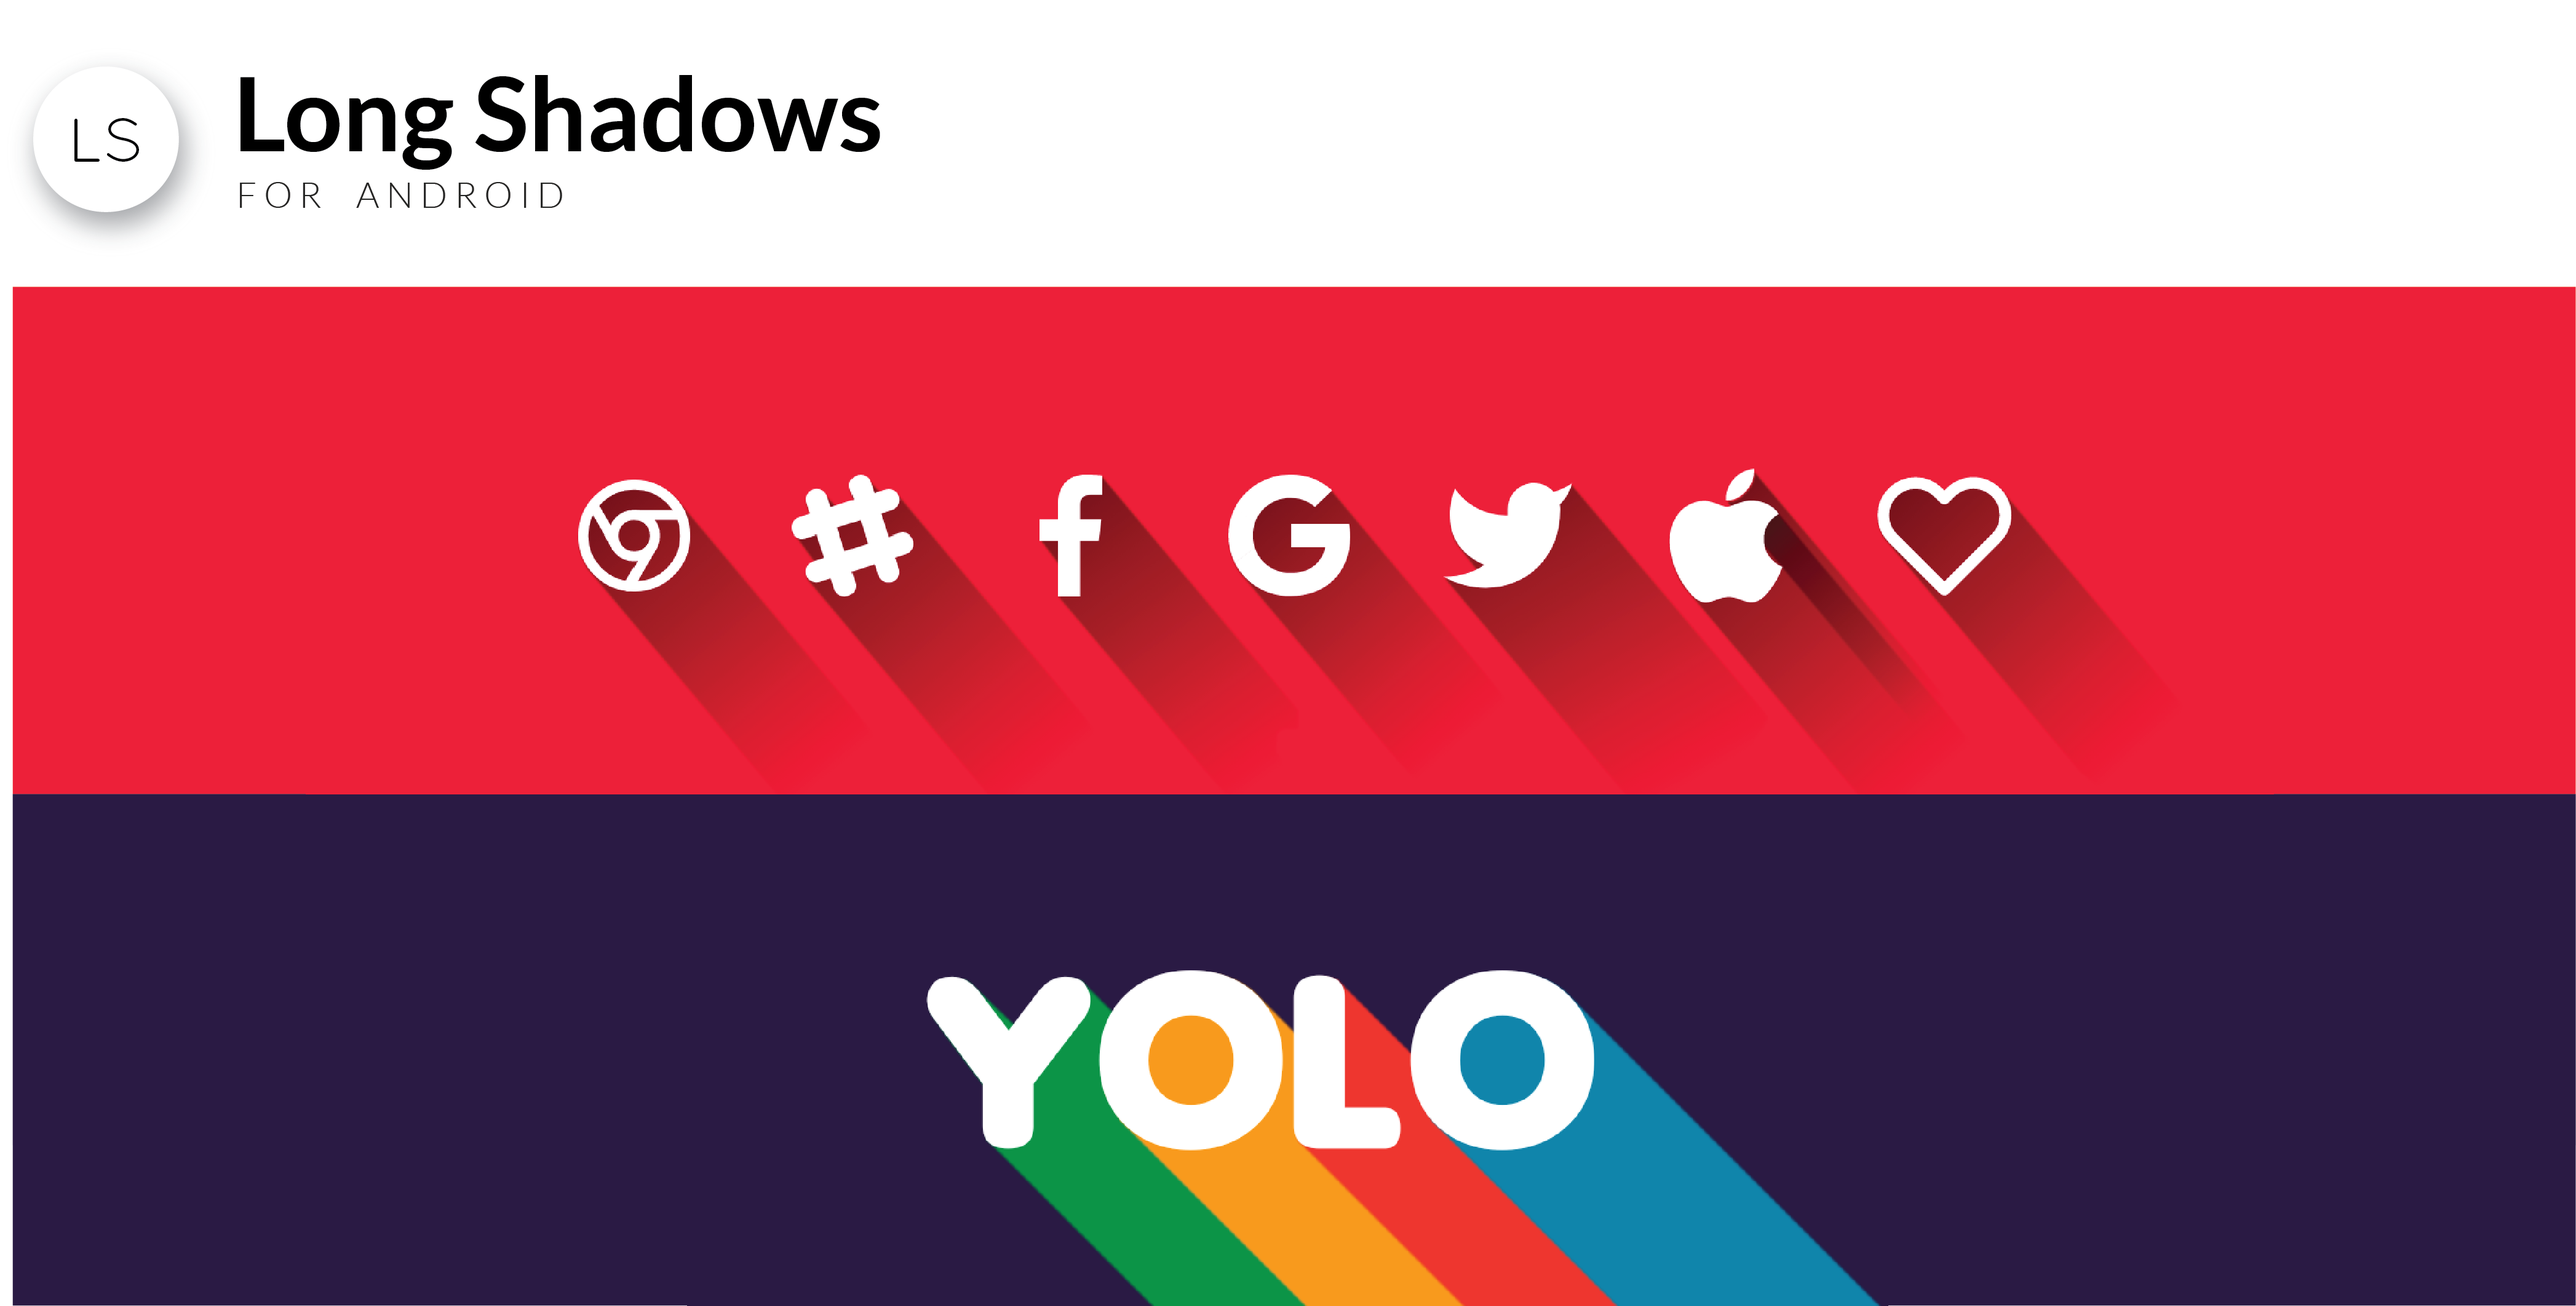
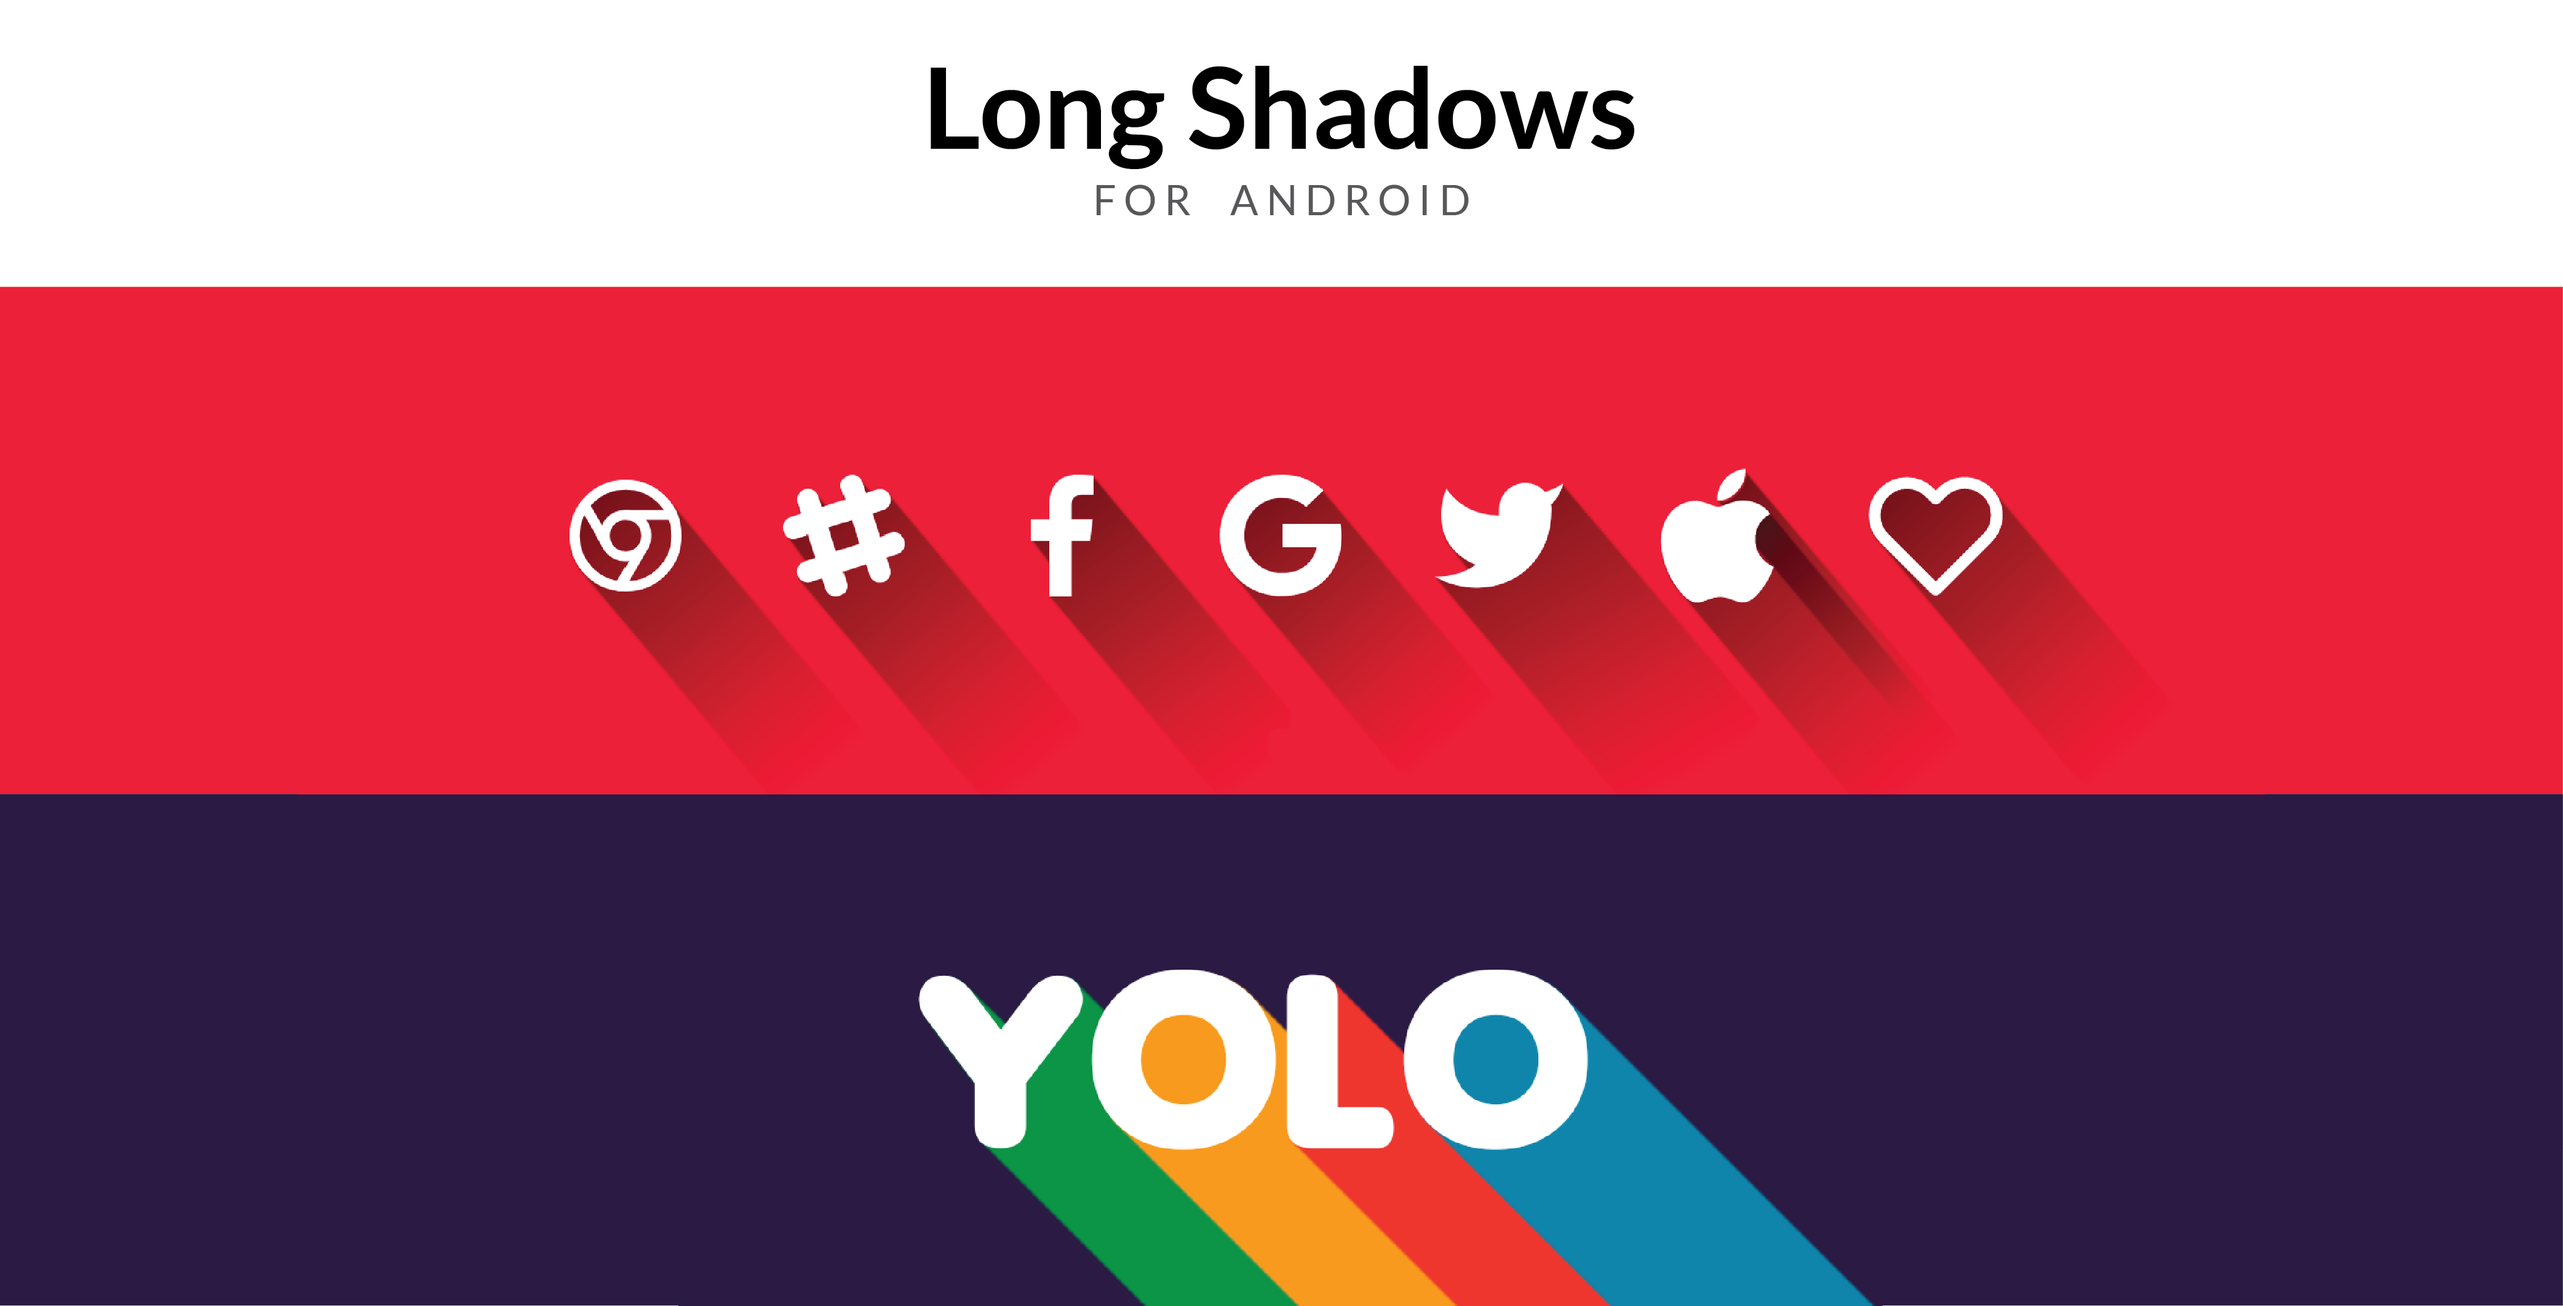
Updates cover image, lists feature in README

diff --git a/README.md b/README.md
@@ -1,7 +1,25 @@
 <div align="center"><img src="/screens/cover.png"/></div>
 
 # Long-Shadows
-Long shadows for android.
+[![Platform](https://img.shields.io/badge/platform-Android-brightgreen.svg)](https://www.android.com)
+[![API](https://img.shields.io/badge/API-15%2B-blue.svg?style=flat)](https://android-arsenal.com/api?level=15)
+[![License: MIT](https://img.shields.io/badge/License-MIT-red.svg)](https://opensource.org/licenses/MIT)
+
+A library for rendering long shadows for android views beautifully and efficeiently. The library provides the following features : 
+
+- <b>Any Type of views</b> : Long-Shadows can render shadow for any type of view, even custom views.
+- <b>Heavy calculation in Native</b> : Long-Shadows shifts the load of heavy calculations to native, to reduce overhead in Java. Thus the rendering is very fast and efficient.
+- <b>Multiple Shadows for a View</b> : The library support rendering multiple long shadows for a single view, simulating multiple light sources.
+- <b>Async Calculations</b> : The library allows the operations to be asynchronous to avoid blocking the UI thread for long calculations.
+- <b>Shadow animations</b> : The library supports fade out animation while rendering the shadow.
+
+# Usage
+Just add the following dependency in your app's `build.gradle`
+```groovy
+dependencies {
+      compile 'com.sdsmdg.harjot:longshadows:0.2'
+}
+```
 
 # License
 <b>Long-Shadows</b> is licensed under `MIT license`. View [license](LICENSE.md).
